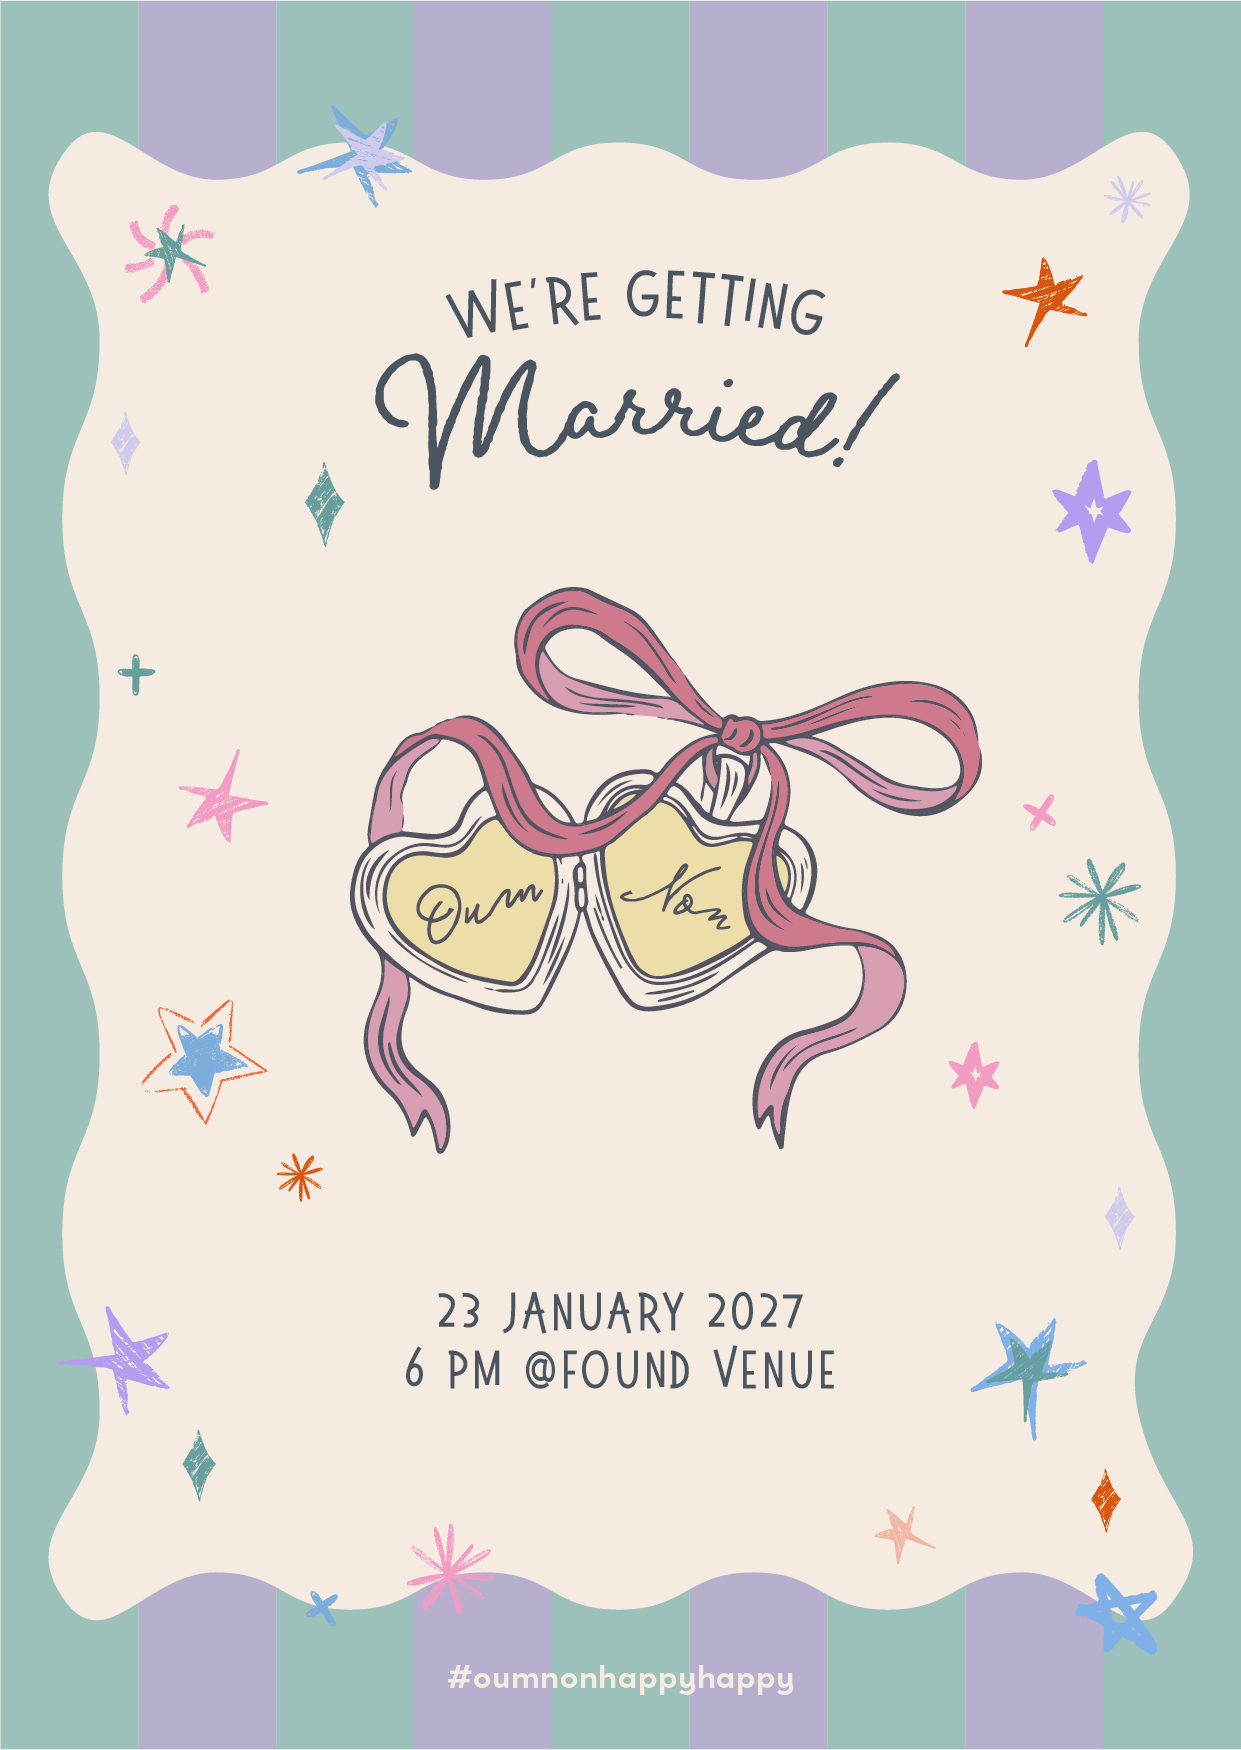
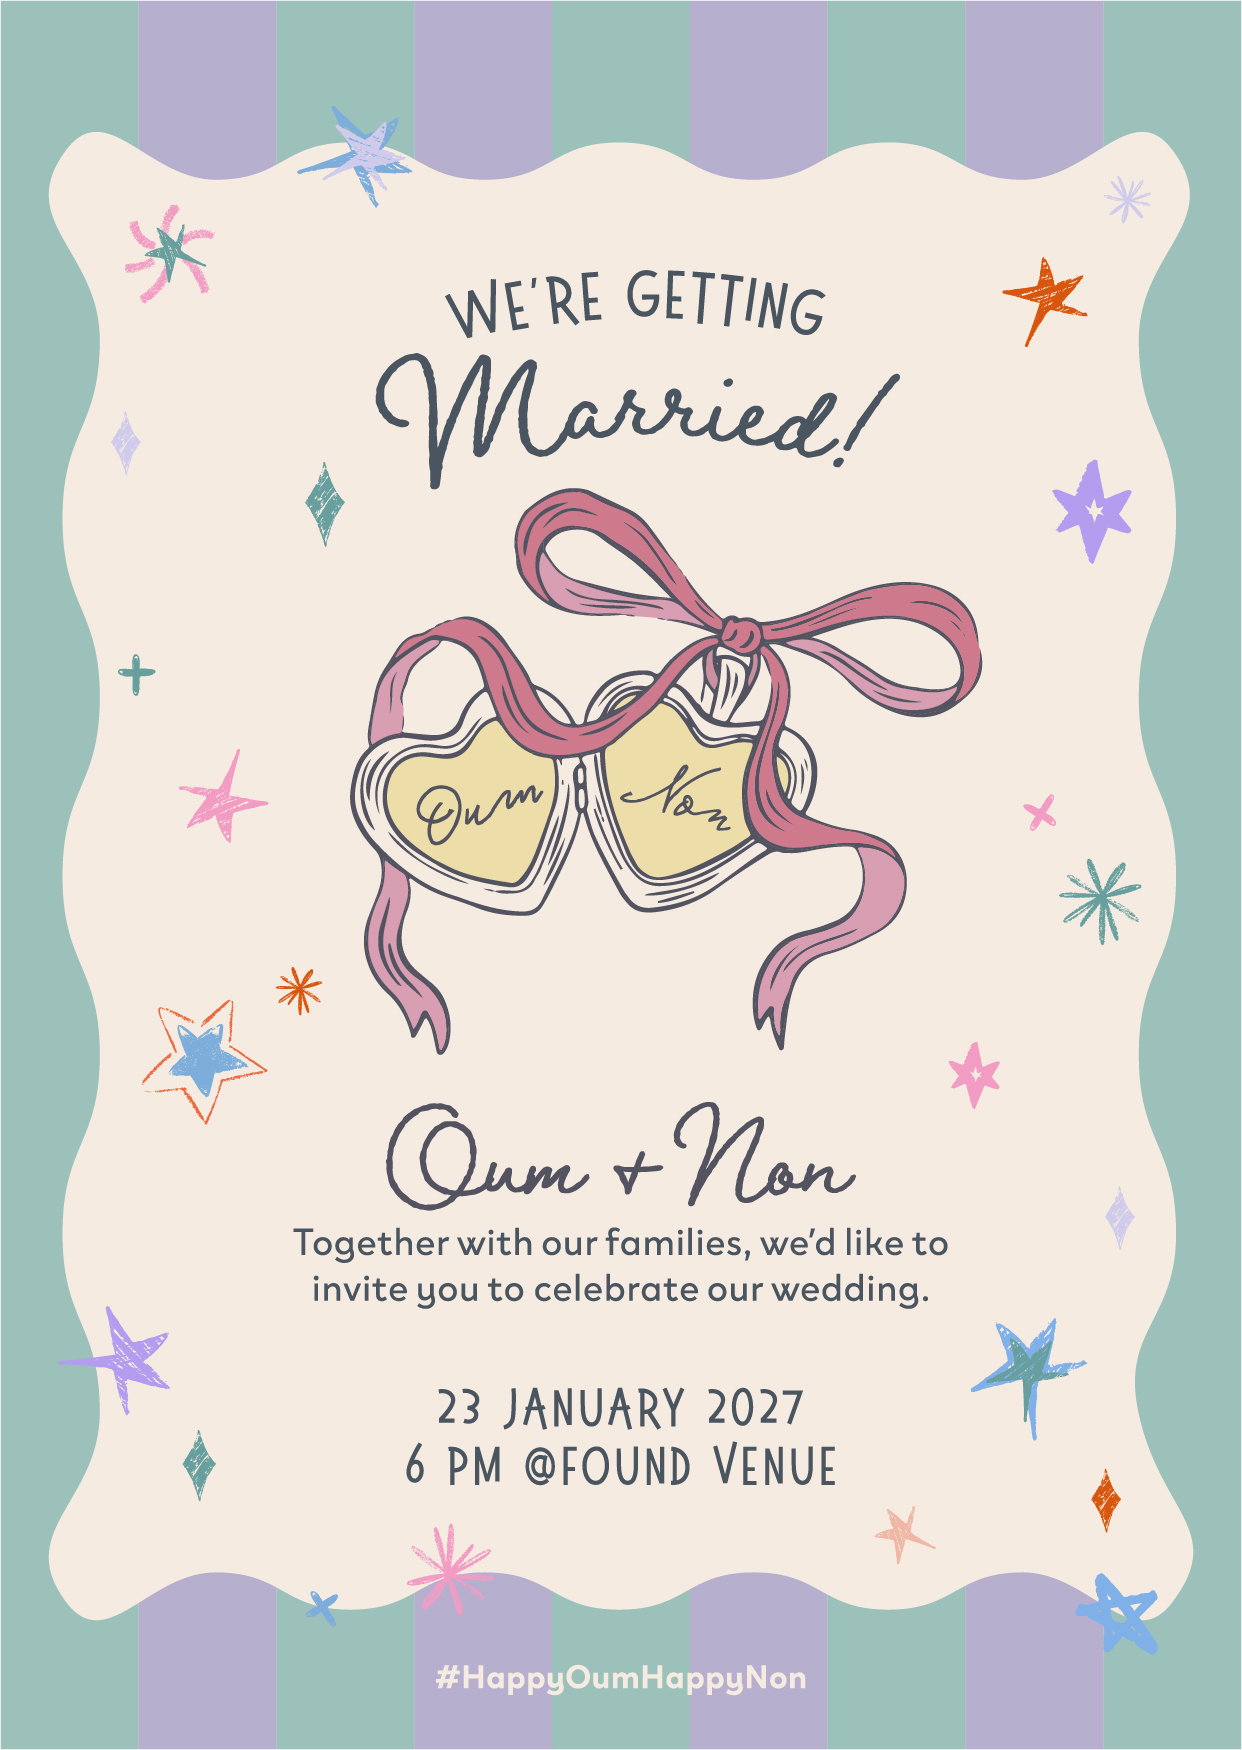
fix: update asset URLs for cache busting and enhance decoration classes
Replaced asset URLs in index.html and invitation.html for cache busting by updating query parameters. Adjusted decoration classes to improve responsiveness and visibility on different screen sizes, ensuring that decorative elements are displayed correctly across devices.

diff --git a/site/invitation.html b/site/invitation.html
@@ -22,13 +22,14 @@
   <div class="content">
     <section class="hero">
       <!-- the scatter is anchored to its section so it stays put as clamp() typography reflows;
-           each piece carries a desktop and a phone placement, see .deco in styles.css -->
+           each piece carries a desktop and a phone placement, see .deco in styles.css;
+           deco--desk marks the filler that only shows once the margin band exists -->
       <img class="deco deco--l deco--tight" src="assets/star-blue.png" alt="" aria-hidden="true" style="--desk-x:-124px;--desk-y:20px;--desk-w:64px;--phone-d:98;--phone-y:92;--phone-w:30;transform:rotate(-14deg)">
       <img class="deco deco--l deco--tight" src="assets/star-pink.png" alt="" aria-hidden="true" style="--desk-x:-113px;--desk-y:260px;--desk-w:56px;--phone-d:114;--phone-y:618;--phone-w:22;transform:rotate(10deg)">
-      <img class="deco deco--l deco--tight" src="assets/diamond-lavender-sm.png" alt="" aria-hidden="true" style="--desk-x:-74px;--desk-y:480px;--desk-w:28px;--phone-d:118;--phone-y:150;--phone-w:16;transform:rotate(6deg)">
+      <img class="deco deco--l deco--desk" src="assets/diamond-lavender-sm.png" alt="" aria-hidden="true" style="--desk-x:-74px;--desk-y:480px;--desk-w:28px;--phone-d:118;--phone-y:150;--phone-w:16;transform:rotate(6deg)">
       <img class="deco deco--r deco--tight" src="assets/starburst-orange.png" alt="" aria-hidden="true" style="--desk-x:-118px;--desk-y:40px;--desk-w:60px;--phone-d:100;--phone-y:86;--phone-w:28;transform:rotate(16deg)">
       <img class="deco deco--r deco--tight" src="assets/star-purple.png" alt="" aria-hidden="true" style="--desk-x:-116px;--desk-y:290px;--desk-w:58px;--phone-d:114;--phone-y:640;--phone-w:24;transform:rotate(-8deg)">
-      <img class="deco deco--r deco--tight" src="assets/cross-teal.png" alt="" aria-hidden="true" style="--desk-x:-71px;--desk-y:520px;--desk-w:26px;--phone-d:118;--phone-y:186;--phone-w:16;transform:rotate(12deg)">
+      <img class="deco deco--r deco--desk" src="assets/cross-teal.png" alt="" aria-hidden="true" style="--desk-x:-71px;--desk-y:520px;--desk-w:26px;--phone-d:118;--phone-y:186;--phone-w:16;transform:rotate(12deg)">
       <p class="eyebrow">WE'RE GETTING</p>
       <h1 class="script">Married!</h1>
       <img class="locket" src="assets/logo-hearts.png" alt="Heart lockets tied with a ribbon, engraved Oum and Non" width="499" height="446">
@@ -39,11 +40,11 @@
 
     <section class="dresscode">
       <img class="deco deco--l" src="assets/sparkle-pink.png" alt="" aria-hidden="true" style="--desk-x:-76px;--desk-y:10px;--desk-w:30px;--phone-d:95;--phone-y:-70;--phone-w:20;transform:rotate(-10deg)">
-      <img class="deco deco--l" src="assets/diamond-teal-sm.png" alt="" aria-hidden="true" style="--desk-x:-71px;--desk-y:120px;--desk-w:26px;--phone-d:70;--phone-y:-30;--phone-w:18;transform:rotate(8deg)">
+      <img class="deco deco--l deco--desk" src="assets/diamond-teal-sm.png" alt="" aria-hidden="true" style="--desk-x:-71px;--desk-y:120px;--desk-w:26px;--phone-d:70;--phone-y:-30;--phone-w:18;transform:rotate(8deg)">
       <img class="deco deco--l" src="assets/star-blue.png" alt="" aria-hidden="true" style="--desk-x:-102px;--desk-y:60px;--desk-w:48px;--phone-d:60;--phone-y:-2;--phone-w:28;transform:rotate(-6deg)">
       <img class="deco deco--r" src="assets/star-teal-pink-burst.png" alt="" aria-hidden="true" style="--desk-x:-132px;--desk-y:20px;--desk-w:70px;--phone-d:64;--phone-y:-6;--phone-w:32;transform:rotate(-18deg)">
-      <img class="deco deco--r" src="assets/diamond-blue.png" alt="" aria-hidden="true" style="--desk-x:-76px;--desk-y:150px;--desk-w:30px;--phone-d:100;--phone-y:-75;--phone-w:18;transform:rotate(14deg)">
-      <img class="deco deco--r" src="assets/sparkle-teal.png" alt="" aria-hidden="true" style="--desk-x:-68px;--desk-y:90px;--desk-w:24px;--phone-d:78;--phone-y:-38;--phone-w:16;transform:rotate(4deg)">
+      <img class="deco deco--r deco--desk" src="assets/diamond-blue.png" alt="" aria-hidden="true" style="--desk-x:-76px;--desk-y:150px;--desk-w:30px;--phone-d:100;--phone-y:-75;--phone-w:18;transform:rotate(14deg)">
+      <img class="deco deco--r deco--desk" src="assets/sparkle-teal.png" alt="" aria-hidden="true" style="--desk-x:-68px;--desk-y:90px;--desk-w:24px;--phone-d:78;--phone-y:-38;--phone-w:16;transform:rotate(4deg)">
       <h2 class="label">Dress Code</h2>
       <img src="assets/dresscode-cluster.png" alt="Dress code: Pastel" width="450" height="370">
     </section>
@@ -51,11 +52,11 @@
     <section class="agenda">
       <img class="deco deco--l deco--tight" src="assets/star-pink-sketch.png" alt="" aria-hidden="true" style="--desk-x:-118px;--desk-y:40px;--desk-w:60px;--phone-d:88;--phone-y:120;--phone-w:34;transform:rotate(-16deg)">
       <img class="deco deco--l" src="assets/diamond-lavender.png" alt="" aria-hidden="true" style="--desk-x:-79px;--desk-y:330px;--desk-w:32px;--phone-d:90;--phone-y:470;--phone-w:20;transform:rotate(9deg)">
-      <img class="deco deco--l" src="assets/cross-teal.png" alt="" aria-hidden="true" style="--desk-x:-74px;--desk-y:650px;--desk-w:28px;--phone-d:96;--phone-y:690;--phone-w:18;transform:rotate(-6deg)">
+      <img class="deco deco--l deco--desk" src="assets/cross-teal.png" alt="" aria-hidden="true" style="--desk-x:-74px;--desk-y:650px;--desk-w:28px;--phone-d:96;--phone-y:690;--phone-w:18;transform:rotate(-6deg)">
       <img class="deco deco--l" src="assets/star-blue.png" alt="" aria-hidden="true" style="--desk-x:-110px;--desk-y:950px;--desk-w:54px;--phone-d:88;--phone-y:980;--phone-w:32;transform:rotate(12deg)">
       <img class="deco deco--r" src="assets/diamond-teal.png" alt="" aria-hidden="true" style="--desk-x:-82px;--desk-y:60px;--desk-w:34px;--phone-d:85;--phone-y:60;--phone-w:20;transform:rotate(-10deg)">
       <img class="deco deco--r deco--tight" src="assets/star-purple.png" alt="" aria-hidden="true" style="--desk-x:-121px;--desk-y:340px;--desk-w:62px;--phone-d:90;--phone-y:400;--phone-w:32;transform:rotate(18deg)">
-      <img class="deco deco--r" src="assets/sparkle-teal.png" alt="" aria-hidden="true" style="--desk-x:-71px;--desk-y:660px;--desk-w:26px;--phone-d:84;--phone-y:780;--phone-w:18;transform:rotate(8deg)">
+      <img class="deco deco--r deco--desk" src="assets/sparkle-teal.png" alt="" aria-hidden="true" style="--desk-x:-71px;--desk-y:660px;--desk-w:26px;--phone-d:84;--phone-y:780;--phone-w:18;transform:rotate(8deg)">
       <img class="deco deco--r deco--tight" src="assets/starburst-orange.png" alt="" aria-hidden="true" style="--desk-x:-113px;--desk-y:960px;--desk-w:56px;--phone-d:92;--phone-y:1020;--phone-w:30;transform:rotate(-14deg)">
       <h2 class="label">Agenda</h2>
       <ul>
@@ -72,9 +73,9 @@
 
     <section class="where">
       <img class="deco deco--l" src="assets/star-pink.png" alt="" aria-hidden="true" style="--desk-x:-116px;--desk-y:20px;--desk-w:58px;--phone-d:90;--phone-y:-6;--phone-w:30;transform:rotate(-12deg)">
-      <img class="deco deco--l" src="assets/diamond-lavender-sm.png" alt="" aria-hidden="true" style="--desk-x:-74px;--desk-y:190px;--desk-w:28px;--phone-d:70;--phone-y:-38;--phone-w:16;transform:rotate(10deg)">
-      <img class="deco deco--l deco--tight" src="assets/cross-teal.png" alt="" aria-hidden="true" style="--desk-x:-71px;--desk-y:300px;--desk-w:26px;--phone-d:112;--phone-y:-62;--phone-w:16;transform:rotate(-8deg)">
-      <img class="deco deco--r deco--tight" src="assets/diamond-blue.png" alt="" aria-hidden="true" style="--desk-x:-76px;--desk-y:30px;--desk-w:30px;--phone-d:118;--phone-y:-72;--phone-w:16;transform:rotate(14deg)">
+      <img class="deco deco--l deco--desk" src="assets/diamond-lavender-sm.png" alt="" aria-hidden="true" style="--desk-x:-74px;--desk-y:190px;--desk-w:28px;--phone-d:70;--phone-y:-38;--phone-w:16;transform:rotate(10deg)">
+      <img class="deco deco--l deco--desk" src="assets/cross-teal.png" alt="" aria-hidden="true" style="--desk-x:-71px;--desk-y:300px;--desk-w:26px;--phone-d:112;--phone-y:-62;--phone-w:16;transform:rotate(-8deg)">
+      <img class="deco deco--r deco--desk" src="assets/diamond-blue.png" alt="" aria-hidden="true" style="--desk-x:-76px;--desk-y:30px;--desk-w:30px;--phone-d:118;--phone-y:-72;--phone-w:16;transform:rotate(14deg)">
       <img class="deco deco--r deco--tight" src="assets/star-teal-pink-burst.png" alt="" aria-hidden="true" style="--desk-x:-127px;--desk-y:180px;--desk-w:66px;--phone-d:92;--phone-y:-10;--phone-w:34;transform:rotate(-16deg)">
       <img class="deco deco--r" src="assets/sparkle-pink.png" alt="" aria-hidden="true" style="--desk-x:-74px;--desk-y:260px;--desk-w:28px;--phone-d:70;--phone-y:-42;--phone-w:18;transform:rotate(6deg)">
       <h2 class="label">Where to celebrate</h2>

diff --git a/site/index.html b/site/index.html
@@ -24,12 +24,12 @@
     <p class="line">ARE GETTING MARRIED</p>
     
     <div class="envelope" title="Open it again">
-      <img class="env-back" src="assets/landing/envelope-back.png?t=1233" alt="" width="1219" height="1476">
-      <a class="pop pop--strip1" href="assets/landing/photo-strip-1.jpg?t=1233" data-item="strip1" aria-label="View the first photo strip" style="--rot:-12deg;--ox:90%;--oy:45%;--delay:0ms"><img src="assets/landing/photo-strip-1.jpg" alt="" width="332" height="1268"></a>
-      <a class="pop pop--strip2" href="assets/landing/photo-strip-2.jpg?t=1233" data-item="strip2" aria-label="View the second photo strip" style="--rot:12deg;--ox:-90%;--oy:45%;--delay:90ms"><img src="assets/landing/photo-strip-2.jpg" alt="" width="332" height="1268"></a>
-      <a class="pop pop--cats"   href="assets/landing/cat_heads.png?t=1233"     data-item="cats"   aria-label="View the cats" style="--rot:5deg;--ox:0%;--oy:60%;--delay:200ms"><img src="assets/landing/cat_heads.png" alt="" width="1040" height="952"></a>
-      <a class="pop pop--ticket" href="assets/landing/ticket.png?t=1233"        data-item="ticket" aria-label="View the ticket" style="--rot:-4deg;--ox:0%;--oy:70%;--delay:330ms"><img src="assets/landing/ticket.png" alt="" width="1241" height="1750"></a>
-      <img class="env-front" src="assets/landing/envelope-front.png?t=1233" alt="" width="1219" height="1476">
+      <img class="env-back" src="assets/landing/envelope-back.png?t=101" alt="" width="1219" height="1476">
+      <a class="pop pop--strip1" href="assets/landing/photo-strip-1.jpg?t=101" data-item="strip1" aria-label="View the first photo strip" style="--rot:-12deg;--ox:90%;--oy:45%;--delay:0ms"><img src="assets/landing/photo-strip-1.jpg" alt="" width="332" height="1268"></a>
+      <a class="pop pop--strip2" href="assets/landing/photo-strip-2.jpg?t=101" data-item="strip2" aria-label="View the second photo strip" style="--rot:12deg;--ox:-90%;--oy:45%;--delay:90ms"><img src="assets/landing/photo-strip-2.jpg" alt="" width="332" height="1268"></a>
+      <a class="pop pop--cats"   href="assets/landing/cat_heads.png?t=101"     data-item="cats"   aria-label="View the cats" style="--rot:5deg;--ox:0%;--oy:60%;--delay:200ms"><img src="assets/landing/cat_heads.png" alt="" width="1040" height="952"></a>
+      <a class="pop pop--ticket" href="assets/landing/ticket.png?t=101"        data-item="ticket" aria-label="View the ticket" style="--rot:-4deg;--ox:0%;--oy:70%;--delay:330ms"><img src="assets/landing/ticket.png" alt="" width="1241" height="1750"></a>
+      <img class="env-front" src="assets/landing/envelope-front.png?t=101" alt="" width="1219" height="1476">
     </div>
     
     <p class="script lead">and you are</p>

diff --git a/site/styles.css b/site/styles.css
@@ -285,6 +285,13 @@ h1.script{
   .actions .deco{ display:none; }
 }
 
+/* the desktop scatter is dense enough to fill a wide margin band; beside a
+   single label on a phone the same count reads as clutter, so the small filler
+   pieces only appear once that band exists */
+@media (max-width:1199.98px){
+  .deco--desk{ display:none; }
+}
+
 /* these pieces sit beside content that on a 320px window already reaches within
    a few px of the wave band, so they are dropped rather than set on the wave */
 @media (max-width:359.98px){
